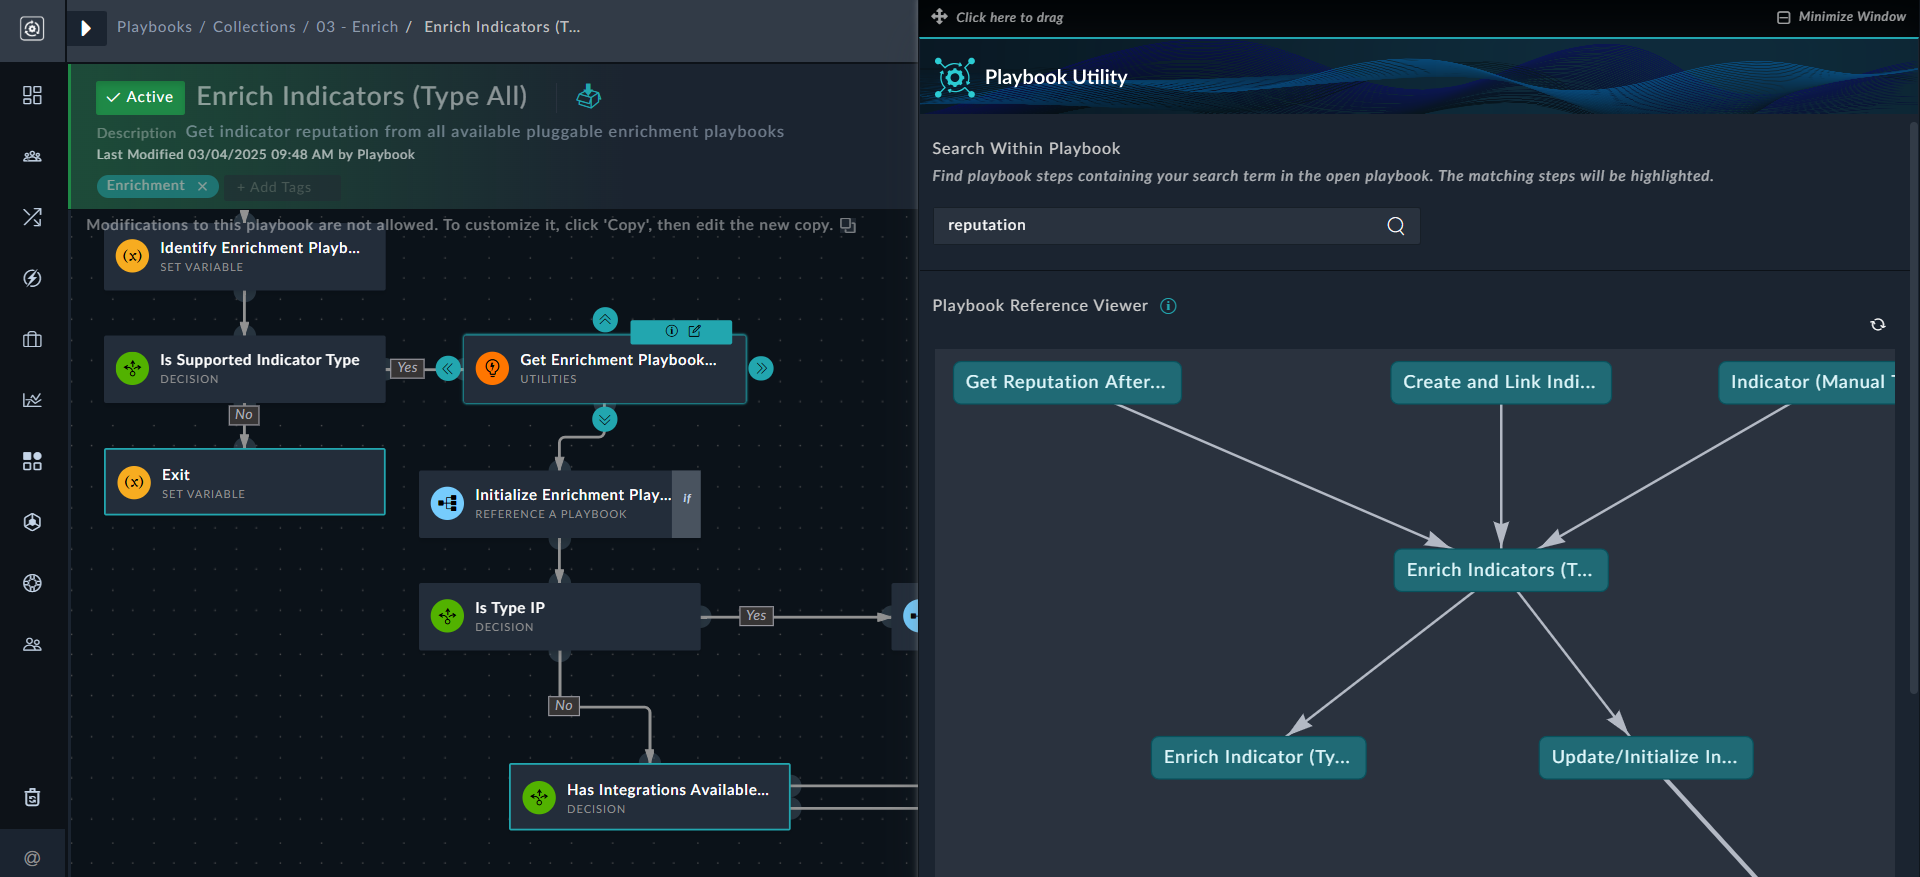
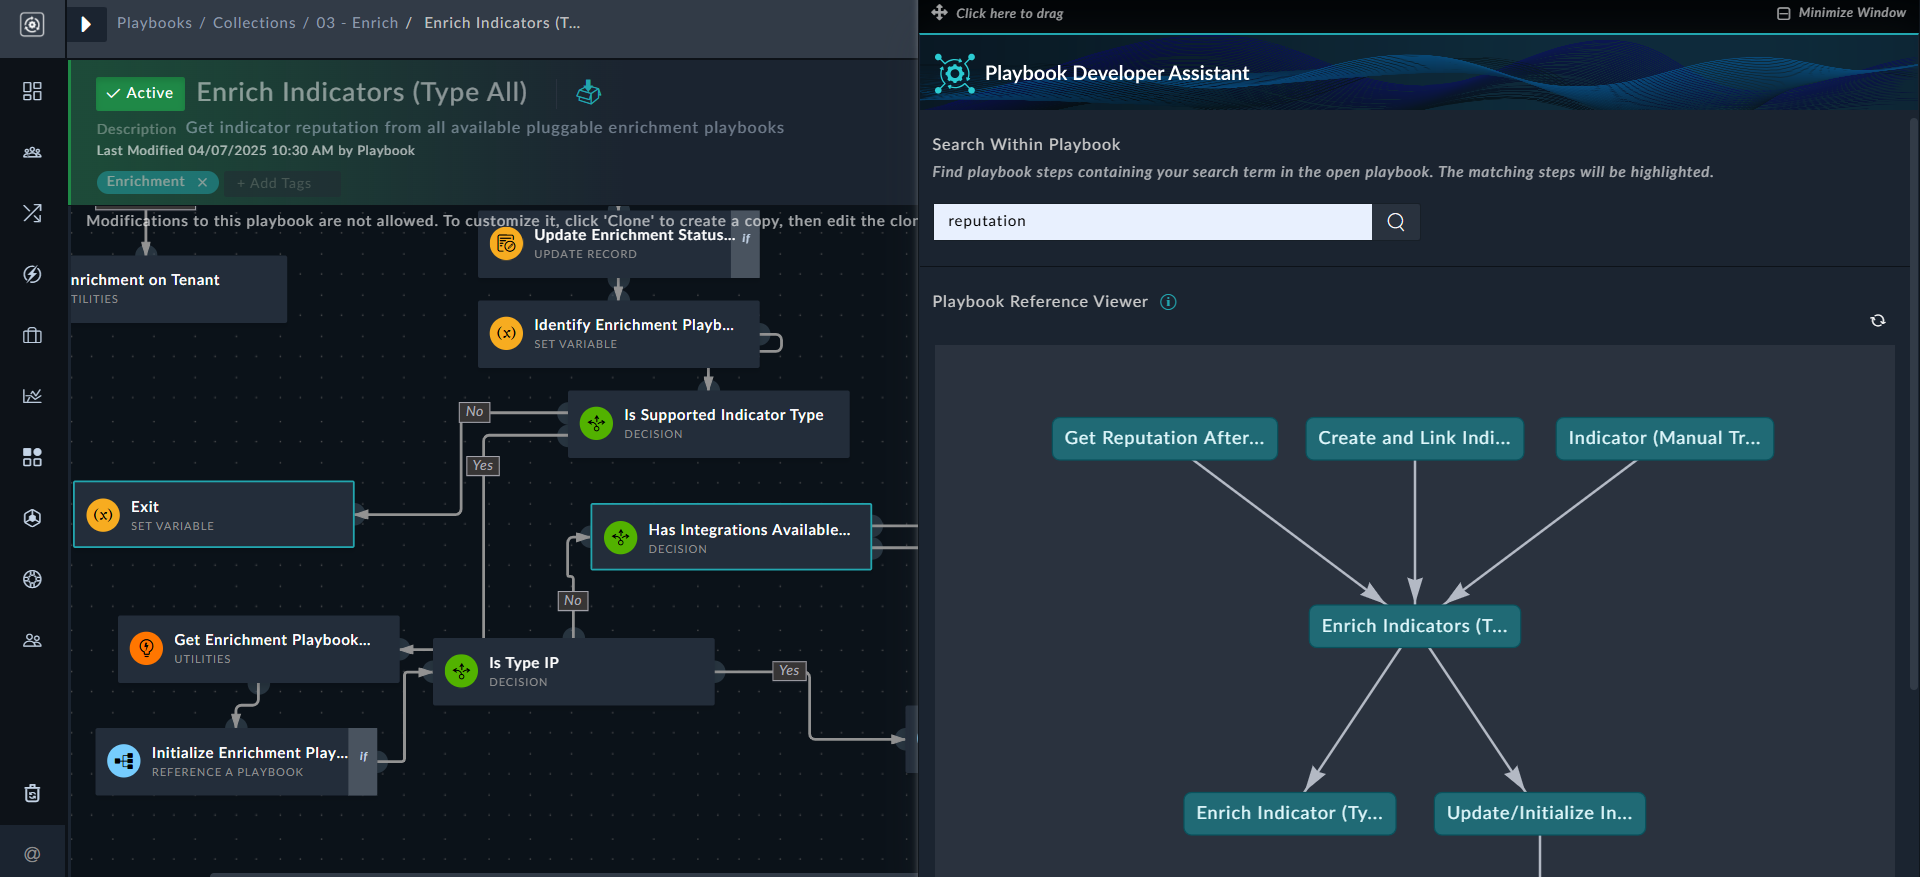
updated the name, screenshots and 1143263 updates

diff --git a/README.md b/README.md
@@ -1,22 +1,22 @@
-# Playbook Utility Widget
+# Playbook Developer Assistant Widget
 
 ## Release Information
 
 - **Version**: 1.0.0
 
-- **Certified**: No
+- **Certified**: Yes
 
 - **Publisher**: Fortinet  
 
-- **Compatibility**: 7.6.0 and later
+- **Compatibility**: 7.6.2 and later
 
 - **Applicable**: Playbook Designer
 
 ## Overview
 
-FortiSOAR supports nested playbooks, enabling more complex relationships between playbooks. The **Playbook Utility** widget provides a visual representation of these relationships in a tree diagram, simplifying the design, configuration, and debugging of nested playbooks. 
+FortiSOAR supports nested playbooks, enabling more complex relationships between playbooks. The **Playbook Developer Assistant** widget provides a visual representation of these relationships in a tree diagram, simplifying the design, configuration, and debugging of nested playbooks. 
 
-Key features of the **Playbook Utility** include: 
+Key features of the **Playbook Developer Assistant** include: 
 
 - **Search Feature**: Quickly locate playbook steps that match the search term within the open playbook.
 - **Playbook Reference Viewer**: View the relationships between the current playbook and both its referenced and referring playbooks in a tree structure. You can click on any related playbook name to open it directly for further inspection.

diff --git a/docs/usage.md b/docs/usage.md
@@ -3,19 +3,19 @@
 
 # Usage
 
-The Playbook Utility Widget adds the **Playbook Utility** icon to the lower-right corner of the playbook designer,  providing a comprehensive view of the current playbook's relationships. It displays both referencing and referenced playbooks of the current playbook, helping users navigate interconnected and nested playbooks through a visual tree structure.
+The Playbook Developer Assistant Widget adds the **Playbook Developer Assistant** icon to the lower-right corner of the playbook designer,  providing a comprehensive view of the current playbook's relationships. It displays both referencing and referenced playbooks of the current playbook, helping users navigate interconnected and nested playbooks through a visual tree structure.
 
-To view the playbook relationships, open a playbook in the designer, and click the **Playbook Utility** icon in the lower-right corner of the screen:
+To view the playbook relationships, open a playbook in the designer, and click the **Playbook Developer Assistant** icon in the lower-right corner of the screen:
 
-![Playbook Utility icon in Playbook Desinger](./res/pbUtilityIcon.png) 
+![Playbook Developer Assistant icon in Playbook Desinger](./res/pbUtilityIcon.png) 
 
-Clicking the **Playbook Utility** icon opens the '***Playbook Utility***' modal, which contains the **Search** feature and the **Playbook Reference Viewer**.
+Clicking the **Playbook Developer Assistant** icon opens the '***Playbook Developer Assistant***' modal, which contains the **Search** feature and the **Playbook Reference Viewer**.
 
 ## Using the Search Feature
 
 The **Search Within Playbook** box helps users find playbook steps including variables, step names, and more, that contain the search term within the open playbook. When a match is found in any step within the open playbook, those steps are highlighted in the playbook designer. For example, searching for `reputation` in the sample playbook, `Enrich Indicators (Type All)` highlights steps such "Exit" (Set Variable step), "Has Integration Available" (Decision step), among others: 
 
-![Search function in the Playbook Utility Widget](./res/pbsearchinpbUtilitywidget.png) 
+![Search function in the Playbook Developer Assistant Widget](./res/pbsearchinpbUtilitywidget.png) 
 
 ## Using the Playbook Reference Viewer
 

diff --git a/docs/setup.md b/docs/setup.md
@@ -3,15 +3,15 @@
 
 # Installation
 1. To install a widget, click **Content Hub** > **Discover**.
-2. From the list of widgets that appears, search **Playbook Utility** widget.
-3. Click to open the **Playbook Utility** widget card.
+2. From the list of widgets that appears, search **Playbook Developer Assistant** widget.
+3. Click to open the **Playbook Developer Assistant** widget card.
 4. Click **Install** on the lower part of the screen to begin installation.
 
 # Configuration
 
 
 > [!NOTE]  
-> The **Playbook Utility** launches when a playbook is opened in the playbook designer and requires no additional configuration.
+> The **Playbook Developer Assistant** launches when a playbook is opened in the playbook designer and requires no additional configuration.
 
 
 ## Next Steps